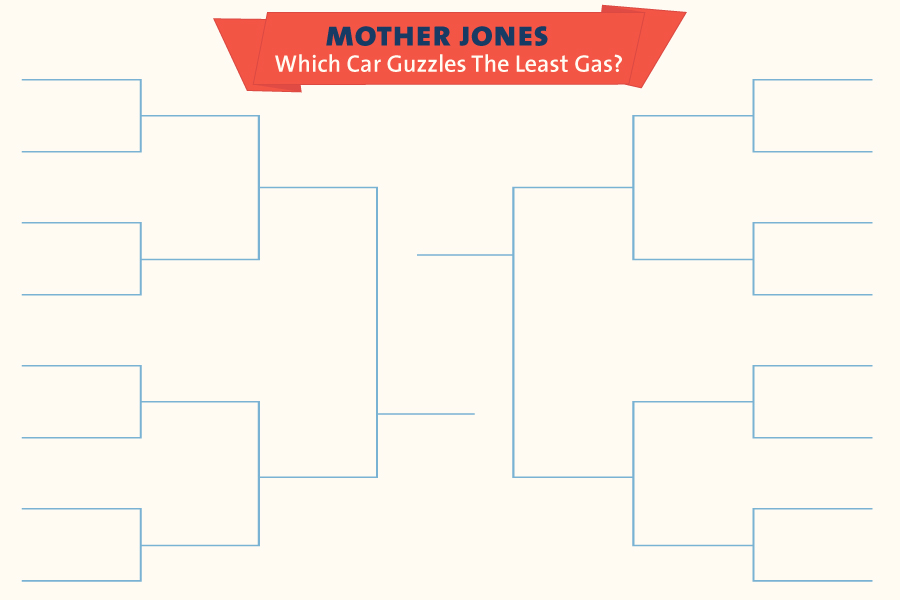
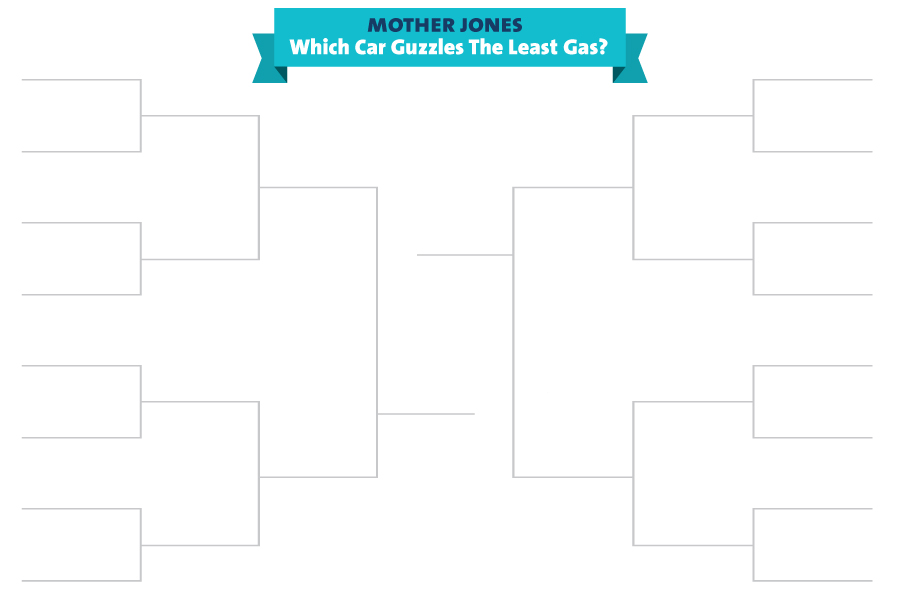
make bluer via Ivy

diff --git a/style.css b/style.css
@@ -43,7 +43,7 @@ body { margin:0; padding:0;}
 }
 
 button.reset, button.see_table, button.hide_table {
-  background-color: rgb(240,86,71);
+  background-color: #13BDCE;
   color: white;
   font-family: 'Gill Sans';
   font-weight: bold;
@@ -57,7 +57,7 @@ button.reset:hover, button.see_table:hover, button.hide_table:hover {
   color: #CCC;
 }
 button.reset:active, button.see_table:active, button.hide_table:active {
-  background-color: rgb(220,66,51);
+  background-color: #109EAC;
 }
 
 .complete {
@@ -66,9 +66,9 @@ button.reset:active, button.see_table:active, button.hide_table:active {
   padding: 5px 20px 20px 20px;
   top: 278px;
   left: 330px;
-  background-color: rgb(240,86,71);
+  background-color: #13BDCE;
   border-radius: 5px;
-  border: 1px solid rgb(220,66,51);
+  border: 1px solid #109EAC;
   font-family: 'Gill Sans';
 }
 .bracket_0 {
